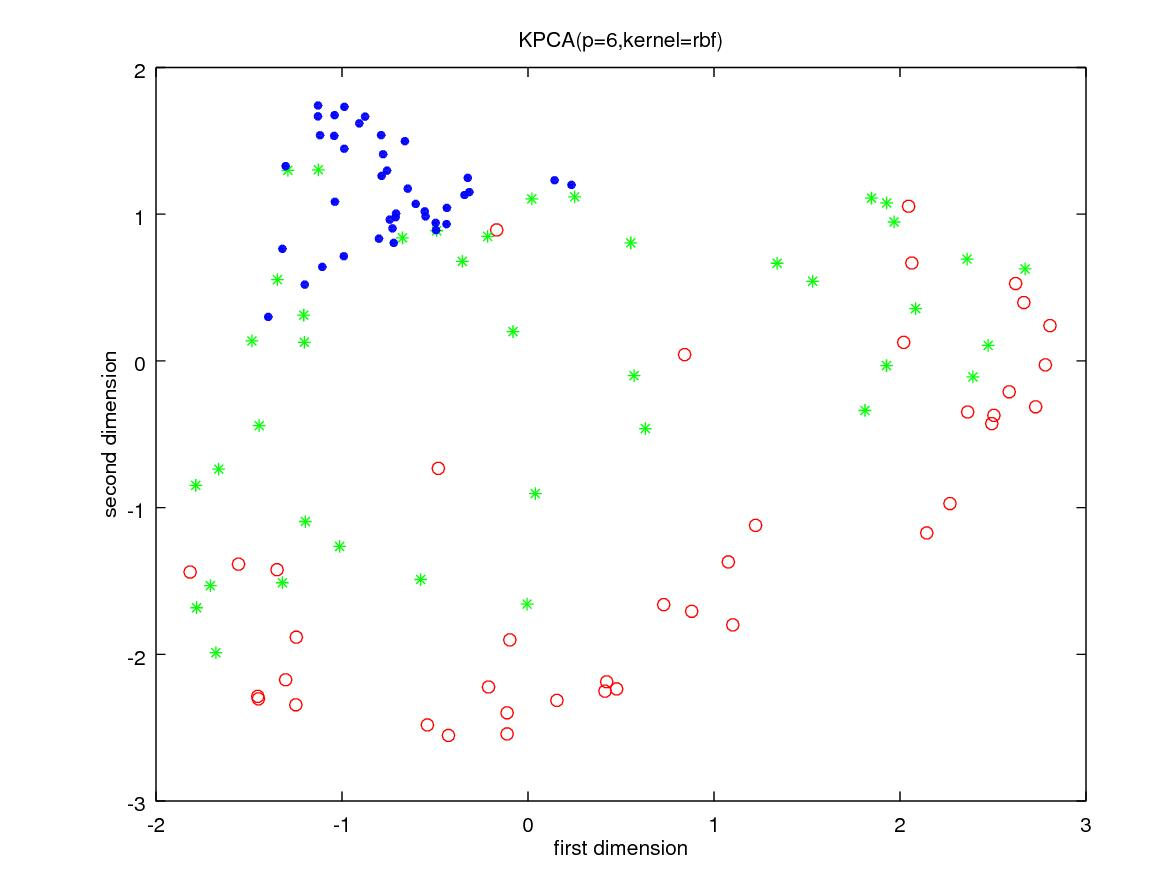
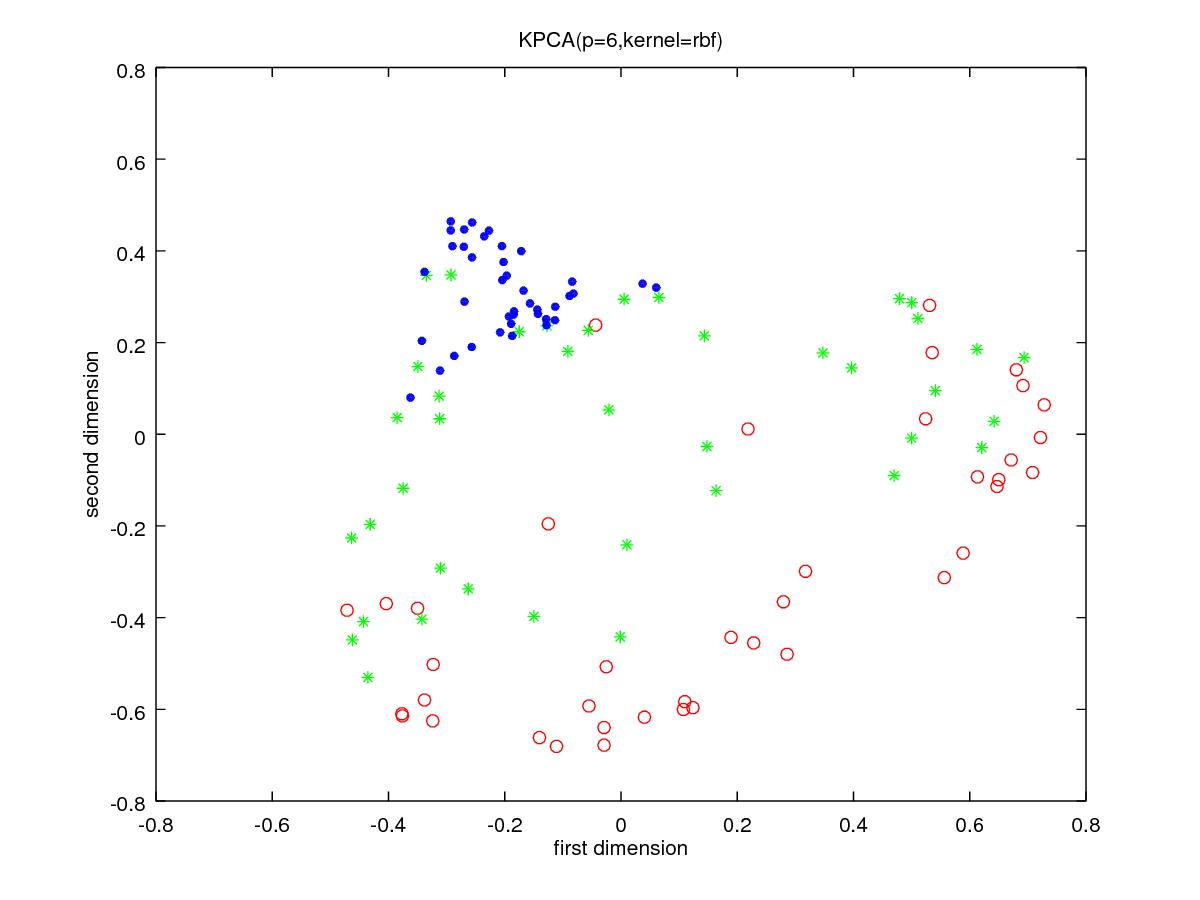
Fixed a bug in kpca.m from the previous commit that made so the eigenvectors were not correctly normalized.

diff --git a/code/kpca.m b/code/kpca.m
@@ -33,12 +33,13 @@ function [eigenvalue, eigenvectors, projectInvectors] = kpca(X, kernel, targetDi
   v = v(:, index);
   rank = 0; % use?
   for i = 1 : size(v, 2)
-    if e(i) ~= 0
+    if e(i) == 0
       break;
     end
-    v(:, i) = v(:, i) ./ sqrt(e(i));
+    v(:, i) = v(:, i)/sqrt(e(i));
     rank = rank + 1;
   end
+  
   eigenvectors = v(:, 1 : targetDim);
   eigenvalue = e(1 : targetDim);
 
